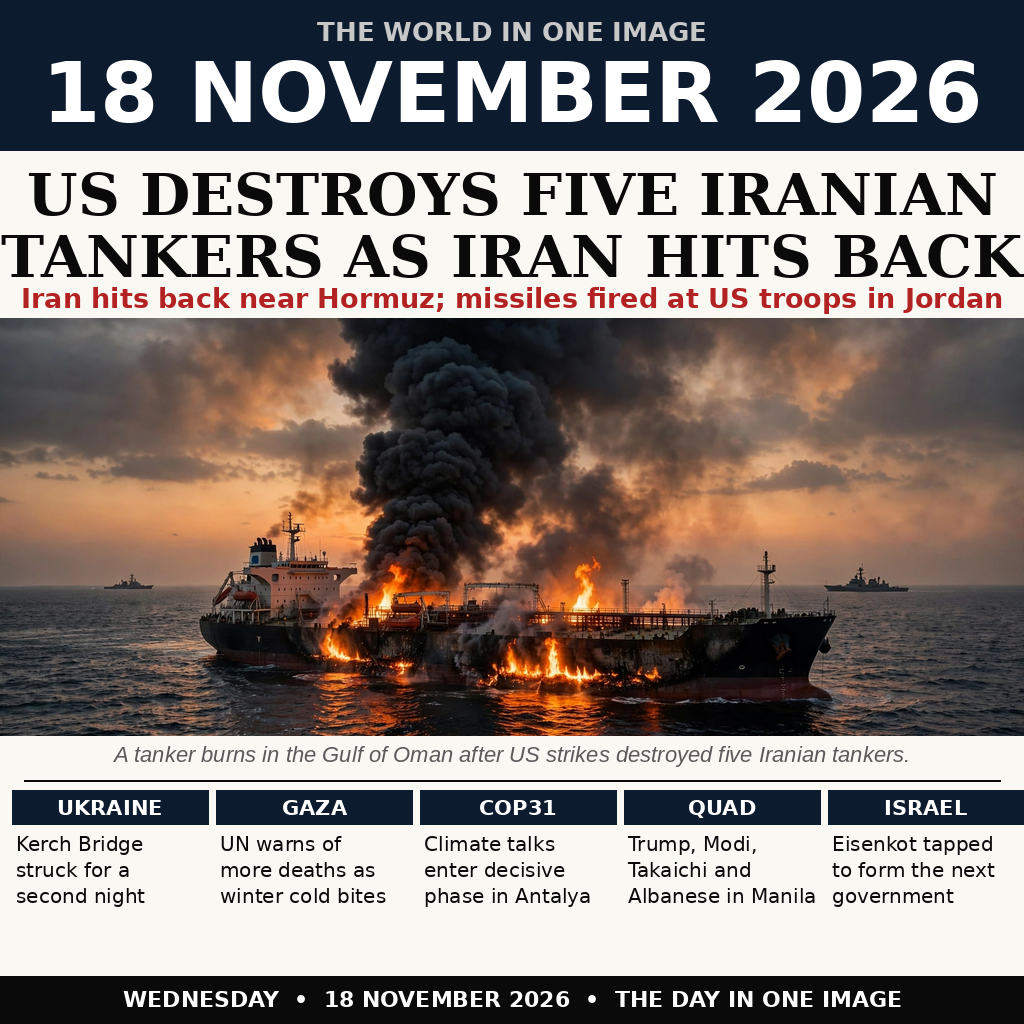
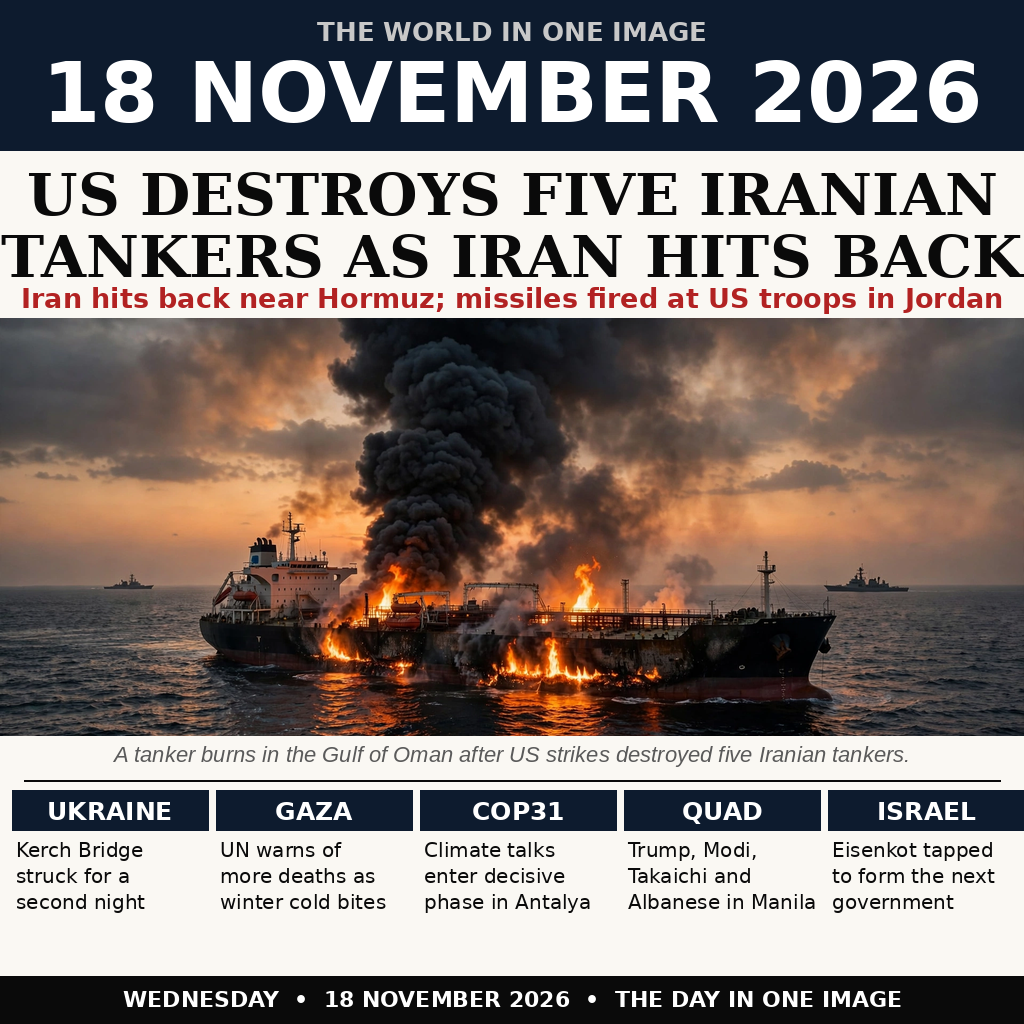
Revise main.ts: byte-for-byte read-back verification; larger strip labels for small-size legibility
- main.ts now reads the written entry.png back and compares it byte for
  byte with the source, exiting non-zero on any mismatch, so the
  determinism the grader demands is checked, not assumed. Also drops the
  unused dirname import.
- entry.png: strip labels 21px -> 25px with a taller navy band, so the five
  story labels stay legible at 300px; layout slack absorbed, no crowding.
- README + main.ts header byte counts updated to 666,395.

Changed region(s): [[0.0, 0.7812, 1.0, 0.9062]]

diff --git a/main.ts b/main.ts
@@ -1,6 +1,6 @@
 // News-image entry: a front-page poster summing up 18 November 2026.
 //
-// The image lives in this repository as entry.png (a 1024x1024 PNG, 665,653
+// The image lives in this repository as entry.png (a 1024x1024 PNG, 666,395
 // bytes). This program does nothing but place that file where the grader
 // expects it: /output/entry.png, or MAKEFUN_OUTPUT_DIR when the harness
 // sets one (the usual stand-in outside the grading container).
@@ -12,13 +12,24 @@
 // COP31, the Quad summit, Eisenkot). The text was laid out with a font
 // renderer so it stays sharp; nothing is fetched at run time, so two runs
 // always write the same bytes.
+//
+// Before finishing, the program reads the written file back and checks it
+// byte for byte against the source, so a truncated or corrupted copy can
+// never pass silently: the grader runs this program twice and demands
+// identical bytes, and this check makes that promise explicit instead of
+// assumed.
 
-import { copyFileSync, mkdirSync } from 'node:fs';
-import { dirname, join } from 'node:path';
+import { copyFileSync, mkdirSync, readFileSync } from 'node:fs';
+import { join } from 'node:path';
 
 const outDir = process.env.MAKEFUN_OUTPUT_DIR ?? '/output';
+const source = new URL('./entry.png', import.meta.url);
+const target = join(outDir, 'entry.png');
+
 mkdirSync(outDir, { recursive: true });
-copyFileSync(
-  new URL('./entry.png', import.meta.url),
-  join(outDir, 'entry.png'),
-);
+copyFileSync(source, target);
+
+if (!readFileSync(target).equals(readFileSync(source))) {
+  console.error('entry.png copy does not match the source byte for byte');
+  process.exit(1);
+}

diff --git a/README.md b/README.md
@@ -13,6 +13,6 @@ in Manila, and Eisenkot being tapped to form Israel's next government.
 
 `main.ts` (Node 22, standard library only) copies `entry.png` to
 `/output/entry.png` (or `$MAKEFUN_OUTPUT_DIR`). The image is a 1024×1024
-PNG of 665,653 bytes; no network is used, so two runs write identical bytes.
+PNG of 666,395 bytes; no network is used, so two runs write identical bytes.
 
 License: MIT.
